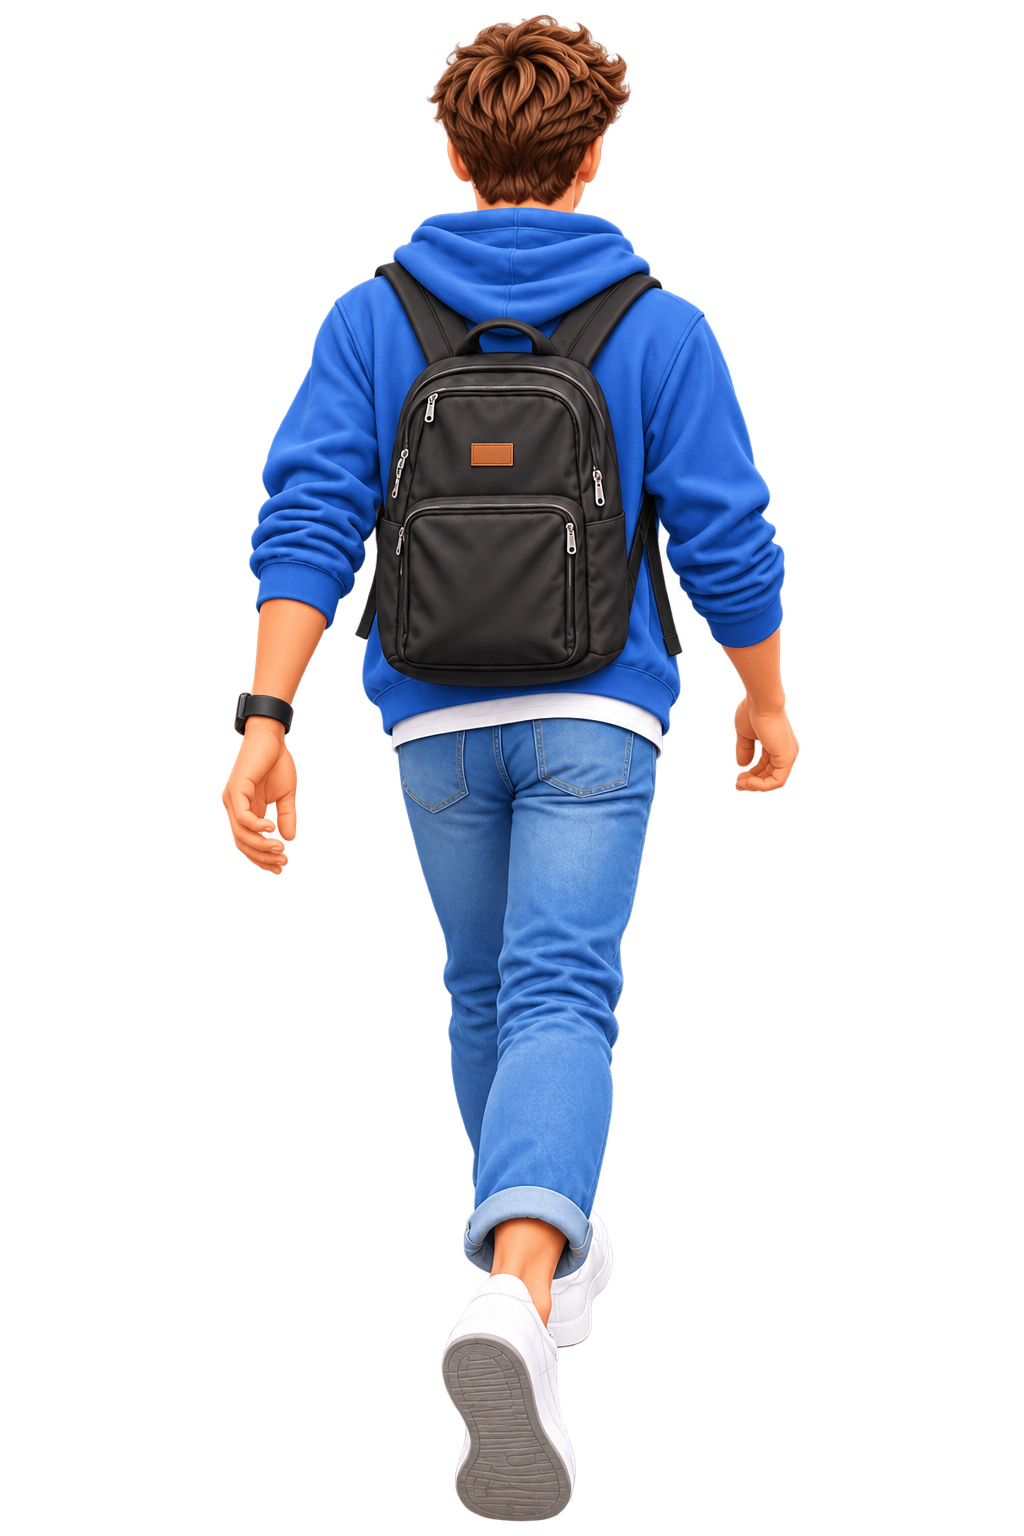
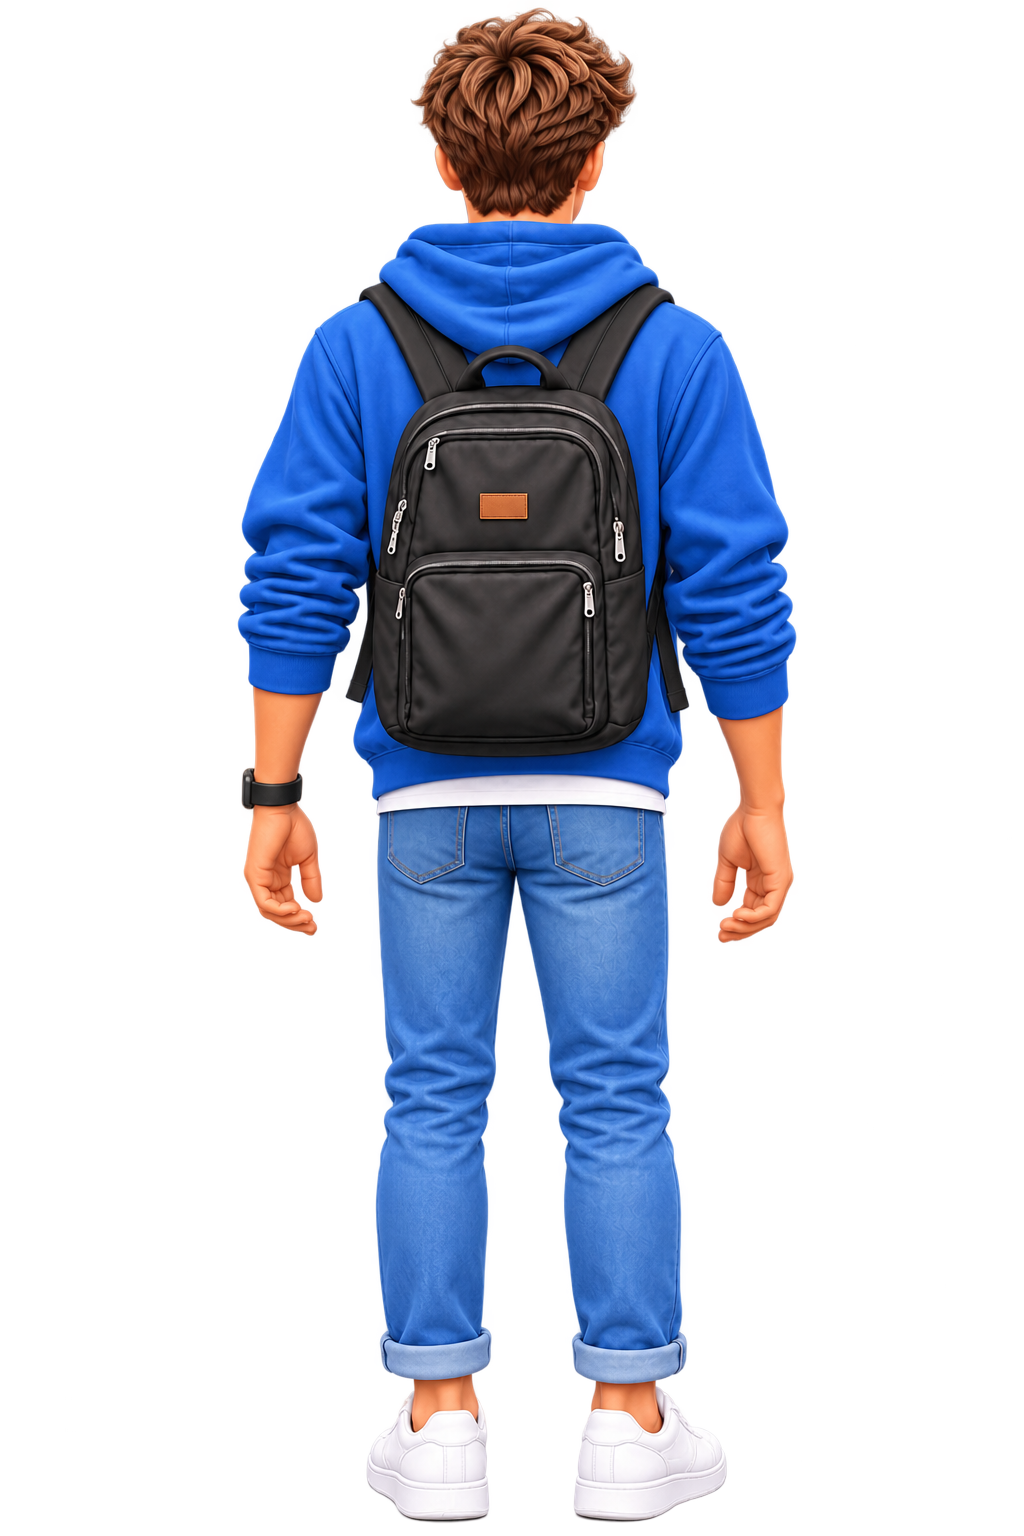
Update traveler asset and walking path

Changed region(s): [[0.2188, 0.0, 0.7812, 1.0]]

diff --git a/js/app.js b/js/app.js
@@ -182,7 +182,8 @@
   });
   app.router.register('checkin', app.checkin.render);
   const securityDebug = new URLSearchParams(window.location.search);
-  let questionsDebugStep = securityDebug.get('debug') === 'questions' ? securityDebug.get('step') || 1 : 1;
+  const questionsDebug = ['localhost', '127.0.0.1', '[::1]'].includes(window.location.hostname) && securityDebug.get('debug') === 'questions';
+  let questionsDebugStep = questionsDebug ? securityDebug.get('step') || 1 : 1;
   app.router.register('questions', container => {
     const start = questionsDebugStep;
     questionsDebugStep = 1;
@@ -214,5 +215,5 @@
     });
     app.ui.syncAudio(channel);
   });
-  app.router.show(['checkin', 'checkin-last'].includes(securityDebug.get('debug')) ? 'checkin' : securityDebug.get('debug') === 'final' ? 'final' : securityDebug.get('debug') === 'questions' ? 'questions' : ['security', 'security-last'].includes(securityDebug.get('debug')) ? 'security' : 'home', false);
+  app.router.show(['checkin', 'checkin-last'].includes(securityDebug.get('debug')) ? 'checkin' : securityDebug.get('debug') === 'final' ? 'final' : questionsDebug ? 'questions' : ['security', 'security-last'].includes(securityDebug.get('debug')) ? 'security' : 'home', false);
 }(window.AirportRush));

diff --git a/js/questions.js b/js/questions.js
@@ -6,10 +6,10 @@
   function sentence(parts) {
     return parts.join(' ').replace(/ \?/g, '?');
   }
-  // Q1–10 retain their routes. Boarding has independent apron/stair anchors.
+  // Exit anchors share the destination center line; boarding has independent apron/stair anchors.
   const paths = {
     terminal: [[730,770], [795,760], [860,750]],
-    exit: [[925,785,1.00], [825,693,.94], [725,601,.88], [625,509,.82]],
+    exit: [[625,785,1.00], [625,693,.94], [625,601,.88], [625,509,.82]],
     boarding: [[500,685,.60], [610,665,.60], [710,640,.60], [825,605,.60], [910,433,.58], [1060,264,.56]]
   };
   // Flat side-view road. All bus travel changes X only.
@@ -216,9 +216,10 @@
     function story() {
       root.classList.add('is-correct');
       const zone = root.dataset.zone;
-      const duration = index < 10 ? (index === 9 ? 1800 : 1000) : travelTime;
+      const duration = zone === 'exit' ? 1667 : index < 10 ? (index === 9 ? 1800 : 1000) : travelTime;
       if (zone === 'shuttle') drive(stops[index - 5 + 1], duration);
       else {
+        if (zone === 'exit') traveler.style.setProperty('--exit-walk-duration', `${duration}ms`);
         setWalking(true);
         traveler.classList.add('is-walking');
         void traveler.offsetWidth;

diff --git a/css/questions.css b/css/questions.css
@@ -50,6 +50,7 @@
 :is([data-zone="terminal"], [data-zone="exit"]) .questions-traveler-still { height: 346.139px; left: -119.287px; bottom: -8.415px; }
 :is([data-zone="terminal"], [data-zone="exit"]) .questions-traveler-walking { height: 378.172px; left: -116.552px; bottom: -6.091px; }
 :is([data-zone="terminal"], [data-zone="exit"]) .questions-traveler.is-walking { transition-duration: 1000ms, 180ms; }
+[data-zone="exit"] .questions-traveler.is-walking { transition-duration: var(--exit-walk-duration, 1667ms), 180ms; }
 /* Keep the larger character intact; the unchanged task panel renders above it. */
 :is([data-zone="terminal"], [data-zone="exit"]) .questions-world { clip-path: none; }
 
